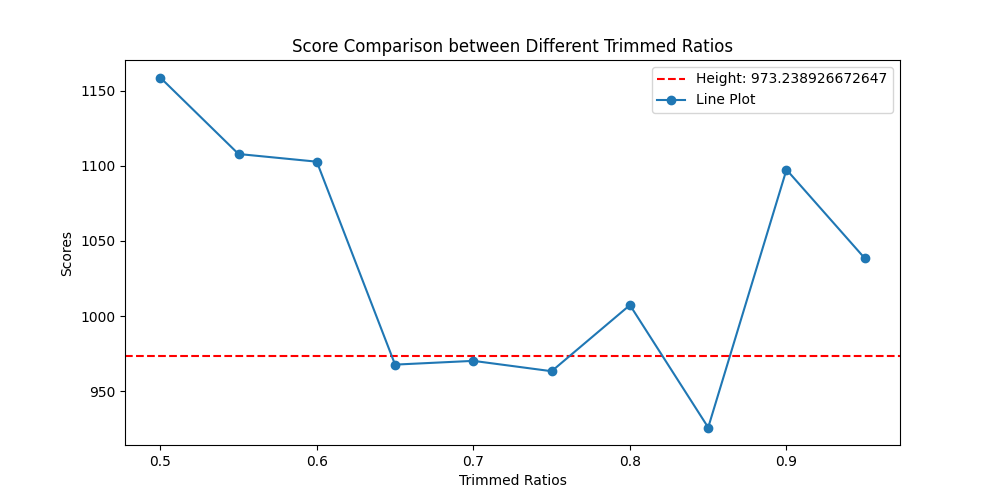
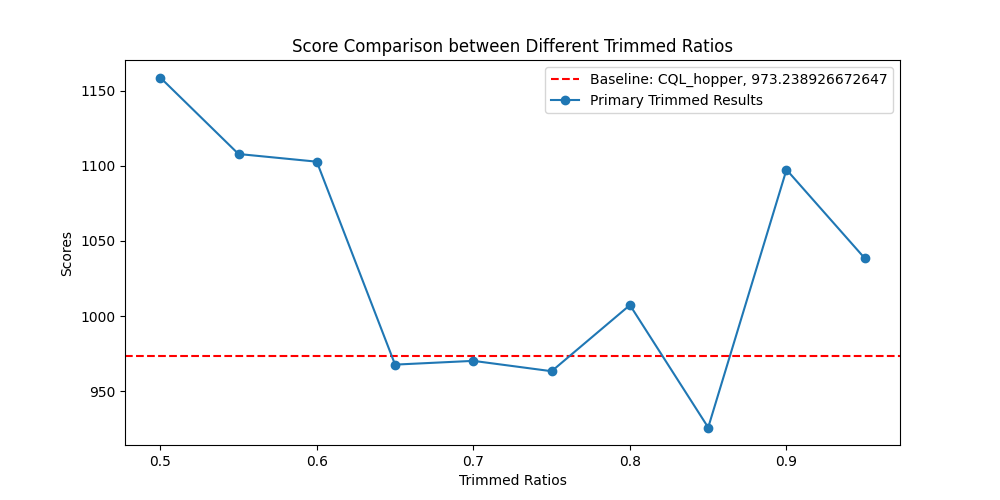
Finished all tests.

Changed region(s): [[0.558, 0.12, 0.899, 0.21]]

diff --git a/plot.py b/plot.py
@@ -107,24 +107,36 @@ reference_table = {
 }
 
 lstm_table = {
-    "BCQ_hopper_0.1": "BCQ_hopper-medium-replay-v0_Generated_0.1_1_20240610025611",
-    "BCQ_hopper_0.05": "BCQ_hopper-medium-replay-v0_Generated_0.05_1_20240610015315",
-    "BCQ_halfcheetah_0.1": "BCQ_halfcheetah-medium-replay-v0_Generated_0.1_1_20240610031052",
-    "BCQ_halfcheetah_0.05": "BCQ_halfcheetah-medium-replay-v0_Generated_0.05_1_20240610015311",
-    "BCQ_walker2d_0.1": "BCQ_walker2d-medium-replay-v0_Generated_0.1_1_20240610025710",
-    "BCQ_walker2d_0.05": "BCQ_walker2d-medium-replay-v0_Generated_0.05_1_20240610015319",
-    "CQL_hopper_0.1": "CQL_hopper-medium-replay-v0_Generated_0.1_1_20240610032619",
-    "CQL_hopper_0.05": "CQL_hopper-medium-replay-v0_Generated_0.05_1_20240610015327",
-    "CQL_halfcheetah_0.1": "CQL_halfcheetah-medium-replay-v0_Generated_0.1_1_20240610033708",
-    "CQL_halfcheetah_0.05": "CQL_halfcheetah-medium-replay-v0_Generated_0.05_1_20240610015322",
-    "CQL_walker2d_0.1": "CQL_walker2d-medium-replay-v0_Generated_0.1_1_20240610033030",
-    "CQL_walker2d_0.05": "CQL_walker2d-medium-replay-v0_Generated_0.05_1_20240610015330",
-    "IQL_hopper_0.1": "IQL_hopper-medium-replay-v0_Generated_0.1_1_20240610022822",
-    "IQL_hopper_0.05": "IQL_hopper-medium-replay-v0_Generated_0.05_1_20240610015346",
-    "IQL_halfcheetah_0.1": "IQL_halfcheetah-medium-replay-v0_Generated_0.1_1_20240610022523",
-    "IQL_halfcheetah_0.05": "IQL_halfcheetah-medium-replay-v0_Generated_0.05_1_20240610015336",
-    "IQL_walker2d_0.1": "IQL_walker2d-medium-replay-v0_Generated_0.1_1_20240610021905",
-    "IQL_walker2d_0.05": "IQL_walker2d-medium-replay-v0_Generated_0.05_1_20240610015340",
+    "BCQ_hopper_0.1": "BCQ_hopper-medium-replay-v0_Generated_0.1_1_20240610163024",
+    "BCQ_hopper_0.05": "BCQ_hopper-medium-replay-v0_Generated_0.05_1_20240610152459",
+    "BCQ_halfcheetah_0.1": "BCQ_halfcheetah-medium-replay-v0_Generated_0.1_1_20240610171007",
+    "BCQ_halfcheetah_0.05": "BCQ_halfcheetah-medium-replay-v0_Generated_0.05_1_20240610152451",
+    "BCQ_walker2d_0.1": "BCQ_walker2d-medium-replay-v0_Generated_0.1_1_20240610162715",
+    "BCQ_walker2d_0.05": "BCQ_walker2d-medium-replay-v0_Generated_0.05_1_20240610152506",
+    "CQL_hopper_0.1": "CQL_hopper-medium-replay-v0_Generated_0.1_1_20240610165536",
+    "CQL_hopper_0.05": "CQL_hopper-medium-replay-v0_Generated_0.05_1_20240610152524",
+    "CQL_halfcheetah_0.1": "CQL_halfcheetah-medium-replay-v0_Generated_0.1_1_20240610171219",
+    "CQL_halfcheetah_0.05": "CQL_halfcheetah-medium-replay-v0_Generated_0.05_1_20240610152515",
+    "CQL_walker2d_0.1": "CQL_walker2d-medium-replay-v0_Generated_0.1_1_20240610165226",
+    "CQL_walker2d_0.05": "CQL_walker2d-medium-replay-v0_Generated_0.05_1_20240610152534",
+    "IQL_hopper_0.1": "IQL_hopper-medium-replay-v0_Generated_0.1_1_20240610162314",
+    "IQL_hopper_0.05": "IQL_hopper-medium-replay-v0_Generated_0.05_1_20240610152610",
+    "IQL_halfcheetah_0.1": "IQL_halfcheetah-medium-replay-v0_Generated_0.1_1_20240610164625",
+    "IQL_halfcheetah_0.05": "IQL_halfcheetah-medium-replay-v0_Generated_0.05_1_20240610152548",
+    "IQL_walker2d_0.1": "IQL_walker2d-medium-replay-v0_Generated_0.1_1_20240610161947",
+    "IQL_walker2d_0.05": "IQL_walker2d-medium-replay-v0_Generated_0.05_1_20240610152555",
+}
+
+curiosity_table = {
+    "BCQ_hopper": "hopper_bcq_20240610210454",
+    "BCQ_halfcheetah": "halfcheetah_bcq_20240610202946",
+    "BCQ_walker2d": "walker2d_bcq_20240610202953",
+    "CQL_hopper": "hopper_cql_20240610210541",
+    "CQL_halfcheetah": "halfcheetah_cql_20240610202858",
+    "CQL_walker2d": "walker2d_cql_20240610202841",
+    "IQL_hopper": "hopper_iql_20240610210541",
+    "IQL_halfcheetah": "halfcheetah_iql_20240610202958",
+    "IQL_walker2d": "walker2d_iql_20240610203011",
 }
 
 def plot_environment_data(file_path: str, output_path: str):
@@ -157,18 +169,18 @@ def calculate_average(file_path: str):
 def Calculate_average(file_path: str):
     data = pd.read_csv(file_path, header=None)
     scores = data[2]
-    scores = scores.nlargest(20).nsmallest(10)
+    scores = scores.nlargest(20).nsmallest(15)
     average_score = scores.mean()
     return average_score
 
-def plot_graph(data, output_path):
+def plot_graph(data, output_path, name):
     line_height = data[0]
     line_values = data[1:]
     x_positions = [0.5, 0.55, 0.6, 0.65, 0.7, 0.75, 0.8, 0.85, 0.9, 0.95]
     
     plt.figure(figsize=(10, 5))
-    plt.axhline(y=line_height, color='r', linestyle='--', label=f'Height: {line_height}')
-    plt.plot(x_positions, line_values, marker='o', label='Line Plot')
+    plt.axhline(y=line_height, color='r', linestyle='--', label=f'Baseline: {name}, {line_height}')
+    plt.plot(x_positions, line_values, marker='o', label='Primary Trimmed Results')
     
     plt.xlabel('Trimmed Ratios')
     plt.ylabel('Scores')
@@ -183,6 +195,7 @@ if __name__ == '__main__':
     # 记分，为每个算法单独画图
     score_sheet = {}
     lstm_score_sheet = {}
+    curiosity_score_sheet = {}
     for algo in ["BCQ", "CQL", "IQL"]:
         for dataset in ["hopper", "halfcheetah", "walker2d"]:
             name = f"{algo}_{dataset}"
@@ -200,14 +213,18 @@ if __name__ == '__main__':
             # 画算法对比图
             name = f"{algo}_{dataset}"
             output_path = f"figures/{name}_comparison.png"
-            plot_graph(score_sheet[name], output_path)
+            plot_graph(score_sheet[name], output_path, f"{algo}_{dataset}")
 
             # 比较lstm效果
             lstm_score_sheet[name] = [max(score_sheet[name])]
             for keep_ratio in [0.05, 0.1]:
                 name = f"{algo}_{dataset}_{keep_ratio}"
                 file_path = f"d3rlpy_logs/{lstm_table[name]}/environment.csv"
-                #output_path = f"figures/lstm_generated/{name}.png"
-                #plot_environment_data(file_path, output_path)
                 lstm_score_sheet[f"{algo}_{dataset}"].append(Calculate_average(file_path))
-    print(lstm_score_sheet)
+
+            # 比较curiosity效果
+            name = f"{algo}_{dataset}"
+            curiosity_score_sheet[name] = [score_sheet[name][0]]
+            name = f"{algo}_{dataset}"
+            file_path = f"d3rlpy_logs/{curiosity_table[name]}/environment.csv"
+            curiosity_score_sheet[f"{algo}_{dataset}"].append(Calculate_average(file_path))

diff --git a/run_baselines.py b/run_baselines.py
@@ -1,35 +1,78 @@
 import d3rlpy
 from d3rlpy.datasets import get_d4rl
+import numpy as np
+from sklearn.neighbors import KernelDensity
+from sklearn.preprocessing import StandardScaler
+import argparse
+
+parser = argparse.ArgumentParser()
+parser.add_argument("--env", type=str, default="hopper")
+parser.add_argument("--algo", type=str, default="cql")
+parser.add_argument("--device", type=str, default="cuda:0")
+parser.add_argument("--seed", type=int, default=42)
+args = parser.parse_args()
 
 # Define the environments and algorithms
 environments = ['hopper', 'halfcheetah', 'walker2d']
 algorithms = ['cql', 'bcq', 'iql']
+bandwidth_dict = {'hopper': 0.6, 'halfcheetah': 0.4, 'walker2d': 0.4}
 
 def run_experiment(env_name, algo_name):
     # Load the dataset
     dataset_name = f'{env_name}-medium-replay-v0'
     dataset, env = get_d4rl(dataset_name)
 
+    # fix seed
+    d3rlpy.seed(args.seed)
+    d3rlpy.envs.seed_env(env, args.seed)
+
     # Create an algorithm object based on the input
     if algo_name == 'bcq':
-        model = d3rlpy.algos.BCQConfig().create(device="cuda:0")
+        model = d3rlpy.algos.BCQConfig().create(device=args.device)
     elif algo_name == 'cql':
-        model = d3rlpy.algos.CQLConfig().create(device="cuda:0")
+        model = d3rlpy.algos.CQLConfig().create(device=args.device)
     elif algo_name == 'iql':
-        model = d3rlpy.algos.IQLConfig().create(device="cuda:0")
+        model = d3rlpy.algos.IQLConfig().create(device=args.device)
     else:
         raise ValueError(f"Unsupported algorithm: {algo_name}")
 
+    list_of_states = []
+    for episode in dataset.episodes:
+        list_of_states.append(episode.observations)
+    all_states = np.vstack(list_of_states)
+    print(f"all_states: {all_states.shape}")
+    scaler = StandardScaler()
+    states_normalized = scaler.fit_transform(all_states)
+
+    bandwidth = bandwidth_dict[env_name]  # best bandwidth, making pseudo count ~ 4, maximizing the rate of std_count / mean_count
+    epsilon = 0.1
+    alpha = 0.5
+    kde = KernelDensity(kernel='gaussian', bandwidth=bandwidth).fit(states_normalized)
+    print(f"total episode: {len(dataset.episodes)}")
+    for i, episode in enumerate(dataset.episodes):
+        print(f"i: {i}")
+        print(f"before change reward: {np.mean(episode.rewards)}")
+        mean_abs_reward = np.mean(np.abs(episode.rewards))
+        next_observations = episode.observations[1:, :]
+        states_normalized = scaler.transform(next_observations)
+        log_density = kde.score_samples(states_normalized)
+        density = np.exp(log_density)
+        pseudo_count = density * all_states.shape[0]
+        exploration_bonus = 1.0 / (np.sqrt(pseudo_count) + epsilon)
+        episode.rewards[:-1, :] += np.reshape(alpha * (exploration_bonus / 0.5 * mean_abs_reward), (-1, 1))
+        print(f"after change reward: {np.mean(episode.rewards)}")
+
     # Fit the model
-    model.fit(dataset, 
-              n_steps=100000,
-              evaluators={"environment": d3rlpy.metrics.EnvironmentEvaluator(env)})
+    model.fit(dataset,
+              n_steps=200000,
+              n_steps_per_epoch=1000,
+              evaluators={"environment": d3rlpy.metrics.EnvironmentEvaluator(env)},
+              experiment_name=f"{args.env}_{args.algo}")
 
     # Evaluate the model (you can customize the evaluation here)
     # For instance, you might want to use a separate evaluation environment or dataset.
 
 if __name__ == '__main__':
-    for env in environments:
-        for algo in algorithms:
-            print(f"Starting experiment for {env} with {algo}")
-            run_experiment(env, algo)
+
+    print(f"Starting experiment for {args.env} with {args.algo}")
+    run_experiment(args.env, args.algo)
